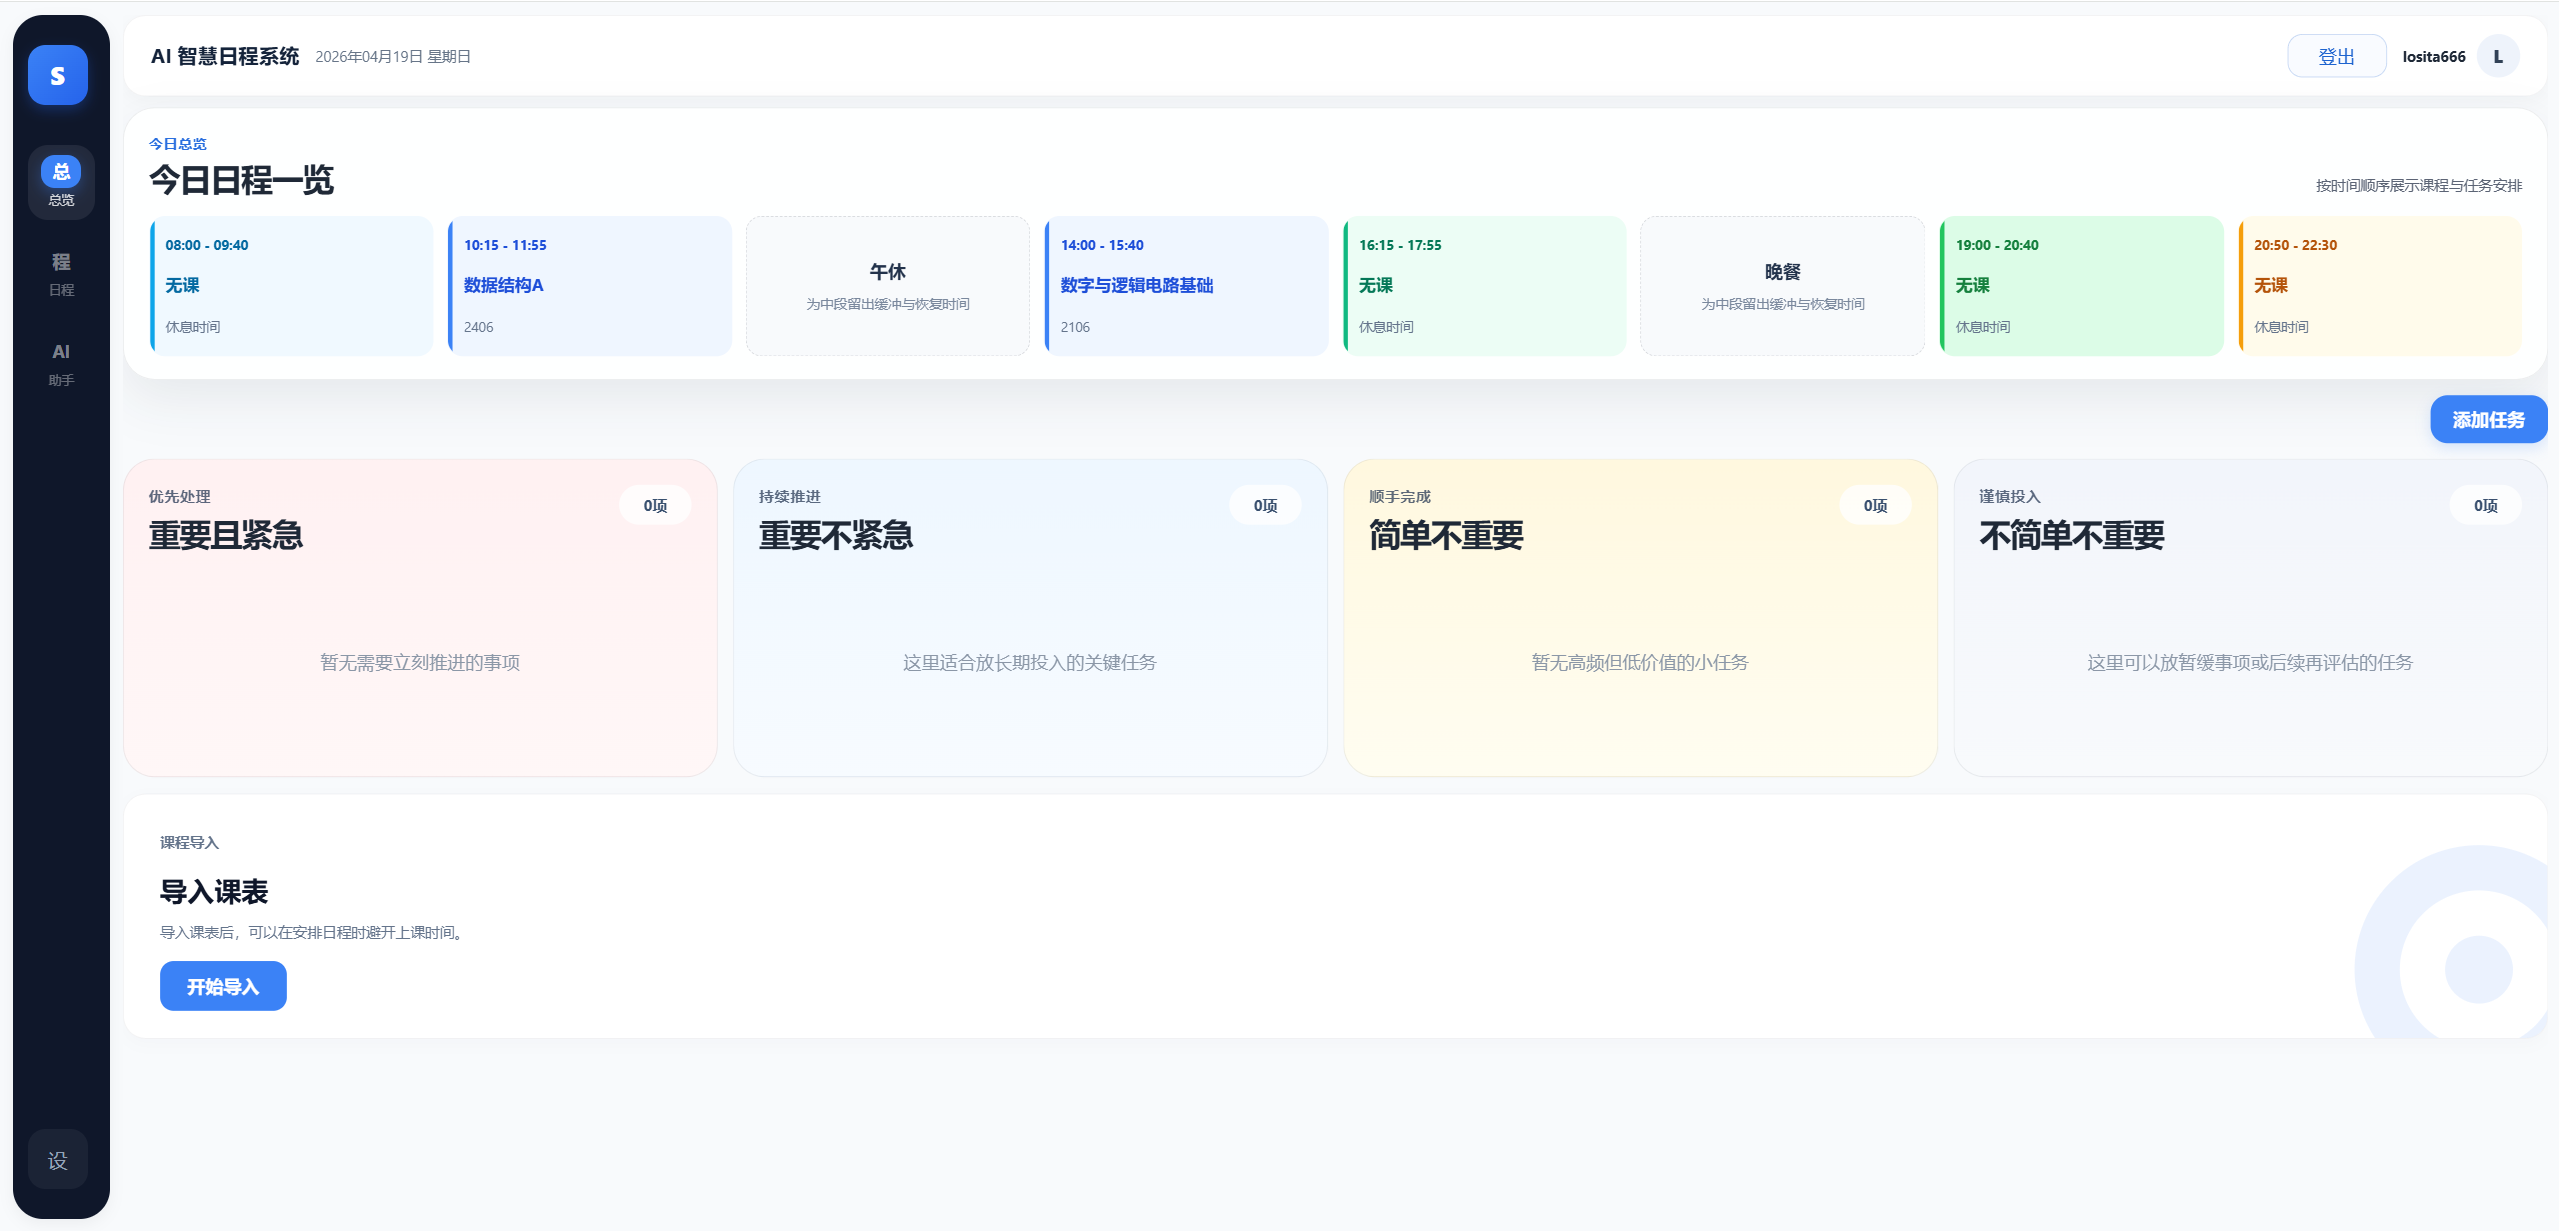
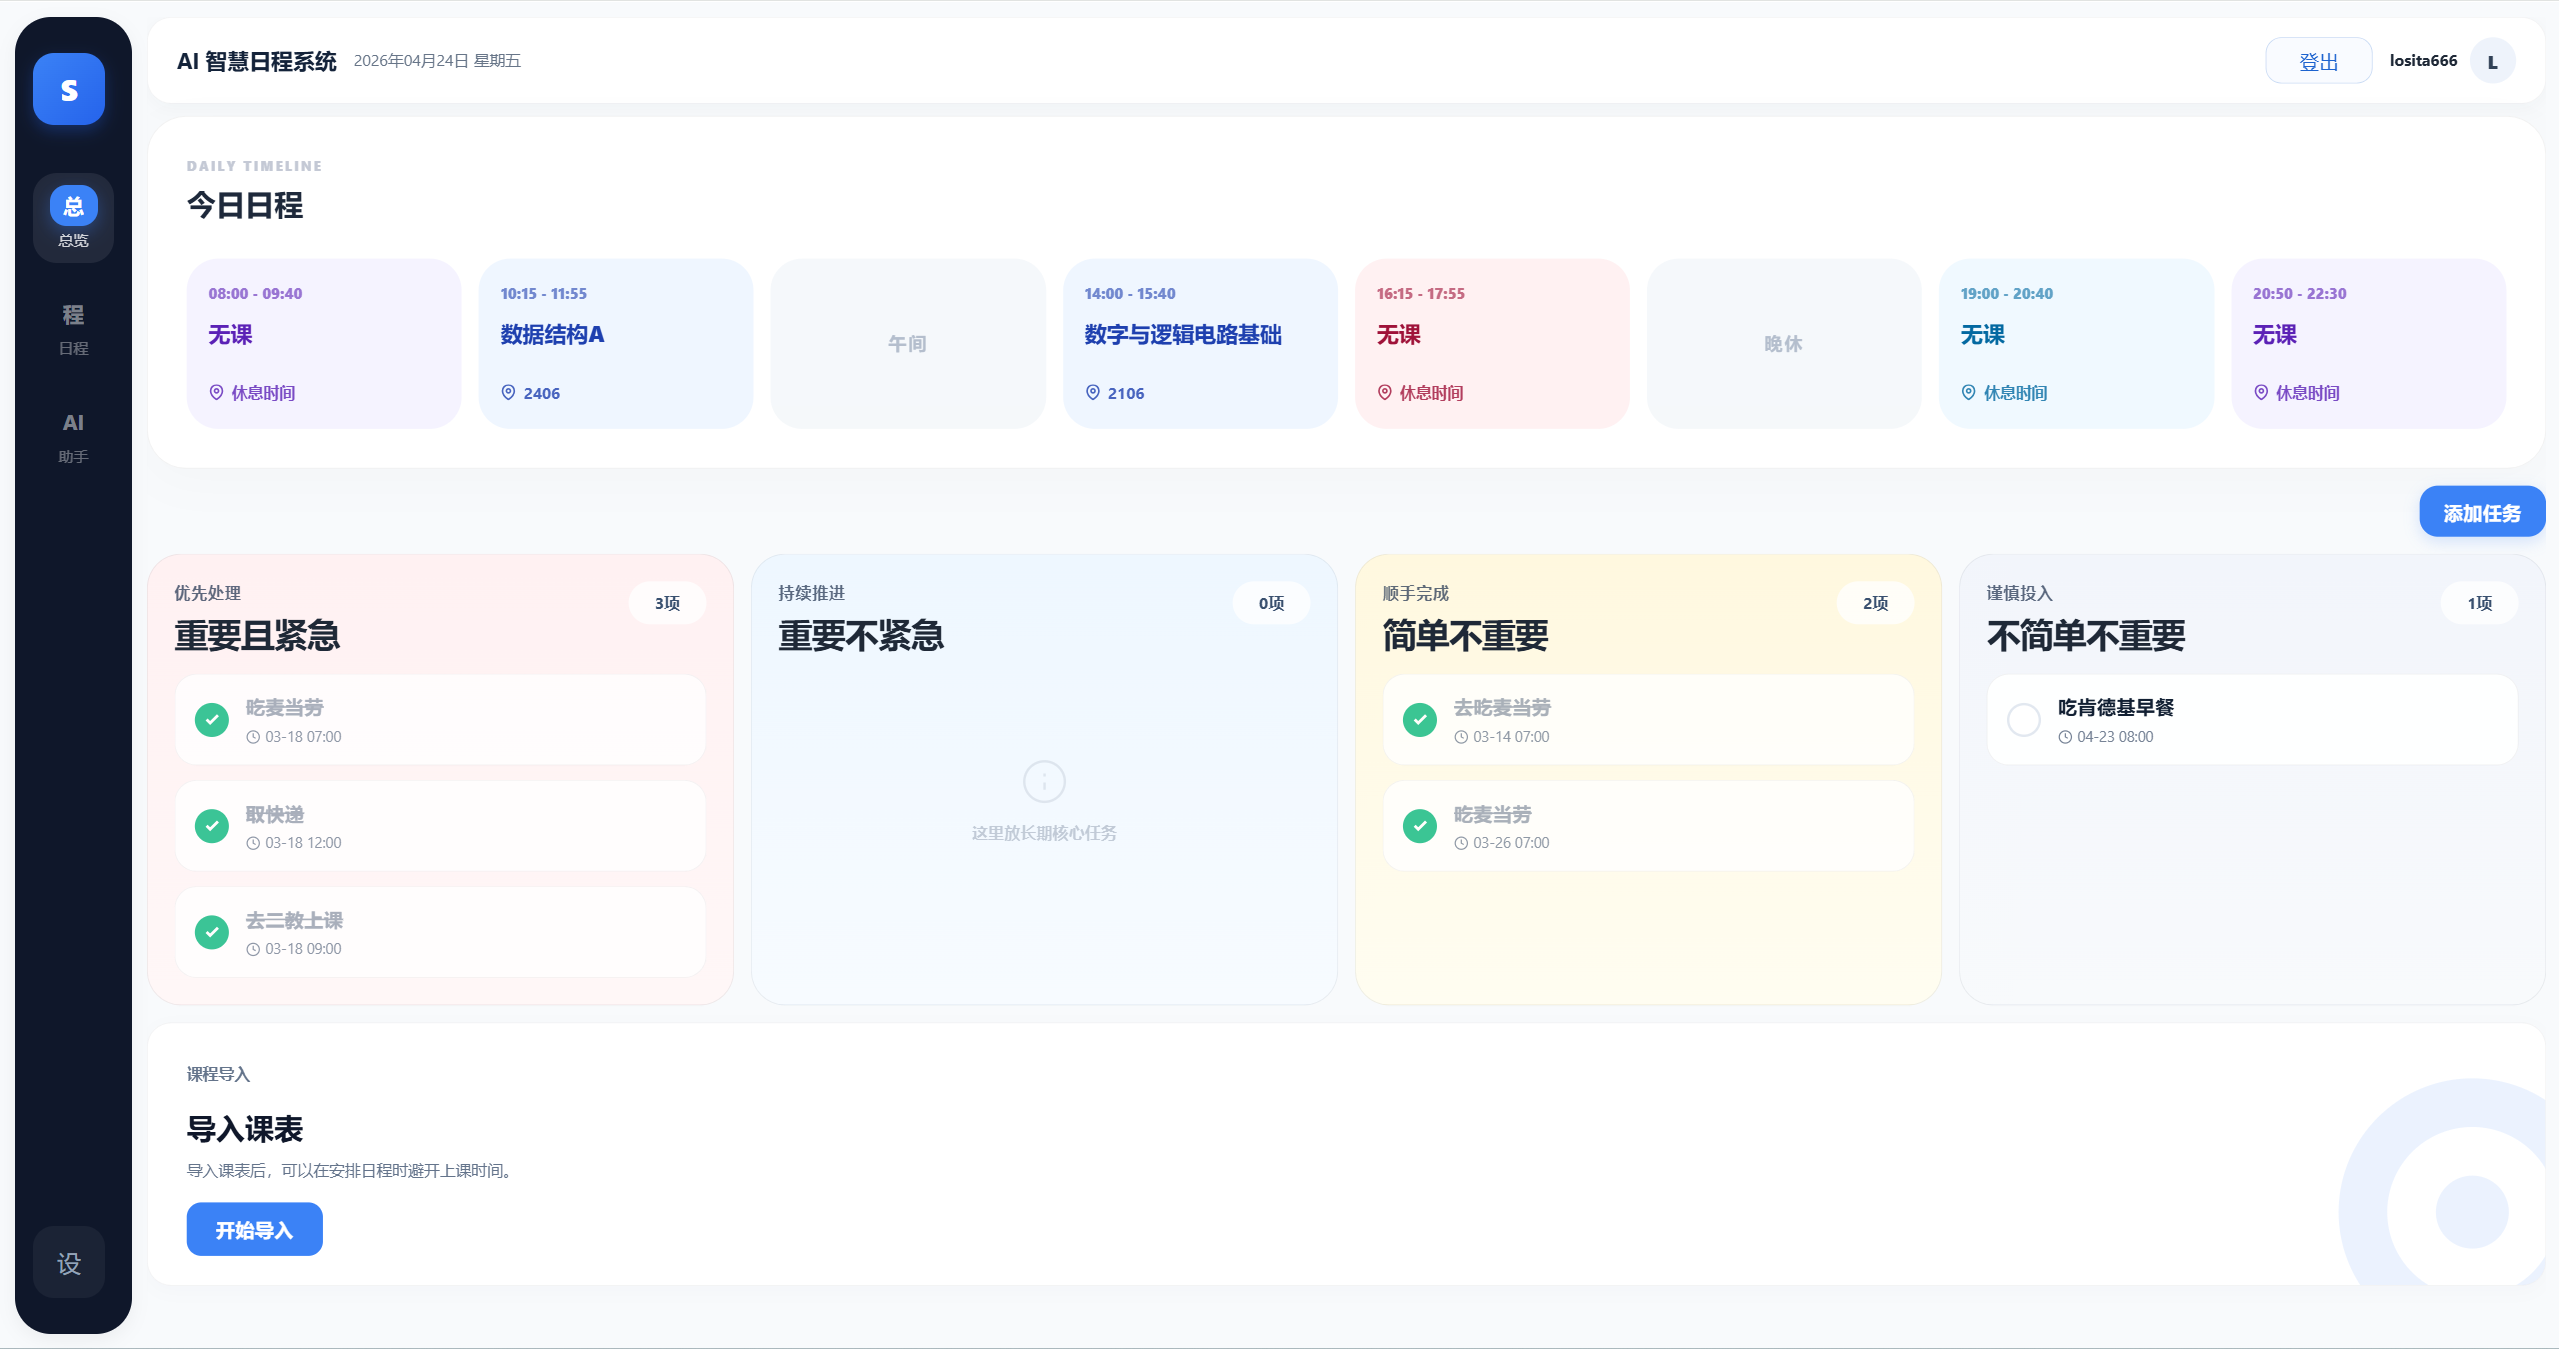
Version: 0.9.40.dev.260424 后端： 1.修复了向量数据库召回出错的问题：删除了不存在于milvus中的status键
前端：无

仓库：
1.更新了readme：修复了图片显示问题

diff --git a/backend/infra/rag/corpus/memory_corpus.go b/backend/infra/rag/corpus/memory_corpus.go
@@ -116,7 +116,6 @@ func (c *MemoryCorpus) BuildRetrieveFilter(_ context.Context, req any) (map[stri
 	}
 	filter := map[string]any{
 		"user_id": input.UserID,
-		"status":  "active",
 	}
 	if v := strings.TrimSpace(input.ConversationID); v != "" {
 		filter["conversation_id"] = v

diff --git a/README.md b/README.md
@@ -142,13 +142,13 @@ flowchart TD
 
 ## 2.2 页面展示
 
-![登录页](D:\SmartFlow-Agent\docs\pics\登录页.png)
+![登录页](./docs/pics/登录页.png)
 
 ![平台首页_已登录](./docs/pics/主页.png)
 
-![课程表页面](D:\SmartFlow-Agent\docs\pics\课程表页面.png)
+![课程表页面](./docs/pics/课程表页面.png)
 
-![AI-工具调用中](D:\SmartFlow-Agent\docs\pics\AI-工具调用中.png)
+![AI-工具调用中](./docs/pics/AI-工具调用中.png)
 
 # 3 后端数据架构
 
